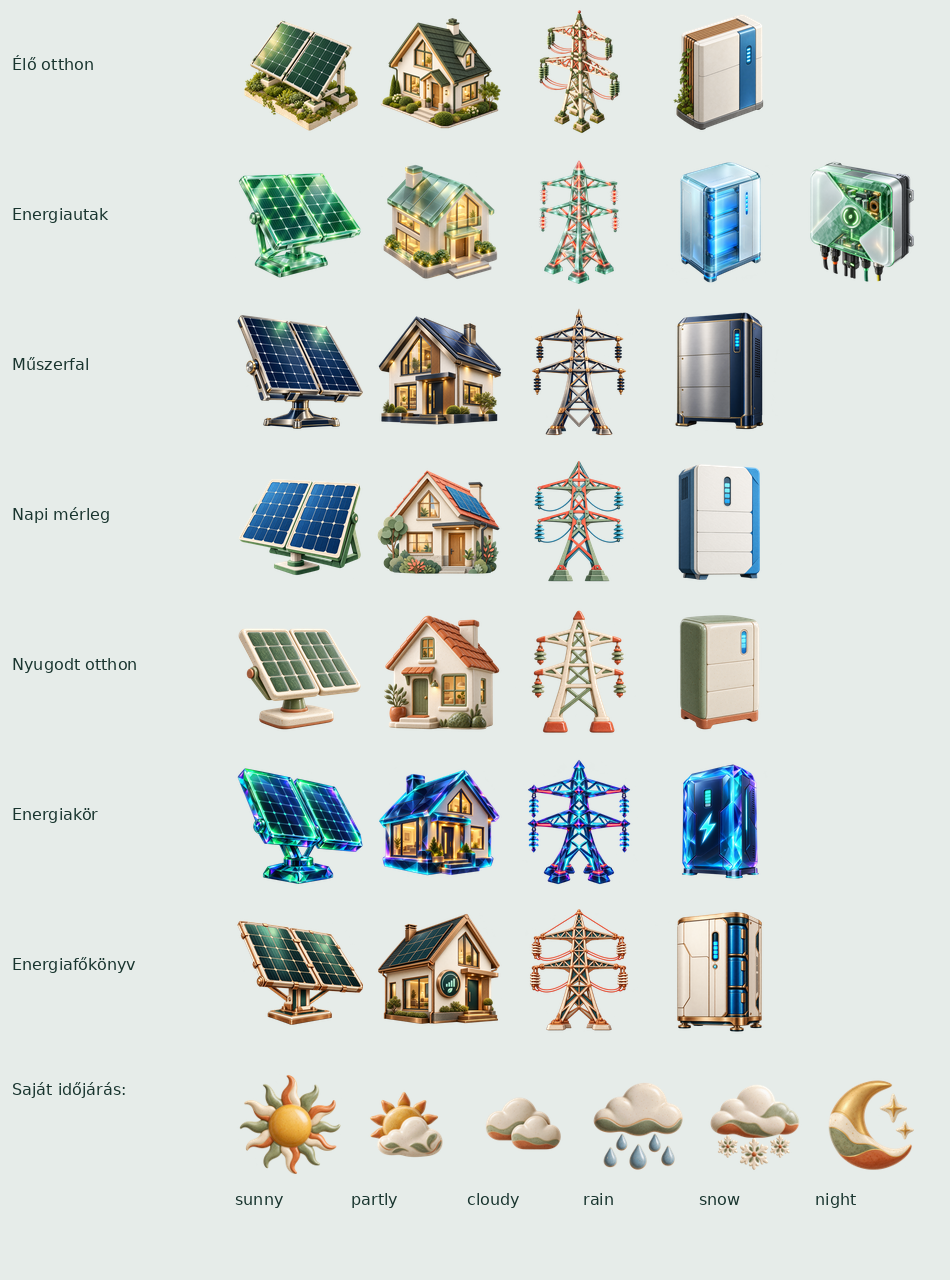
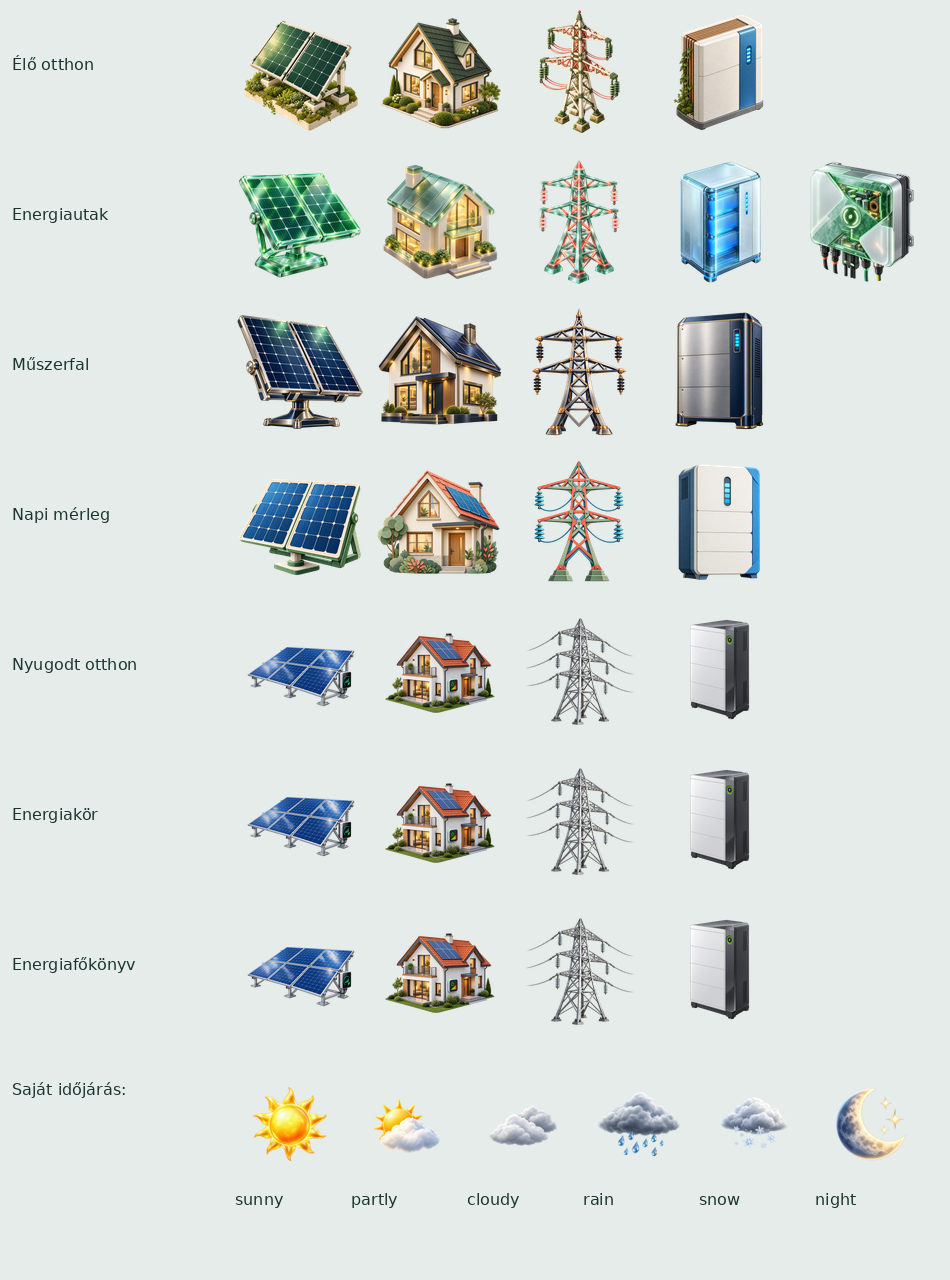
QA: document theme refinements and render all day and night previews

diff --git a/tools/prepare_templates.py b/tools/prepare_templates.py
@@ -98,9 +98,9 @@ def house(dark):
         (1090, 264, 'Akkumulátor', 'battery', BLUE, 'battery_direction'),
         (520, 554, 'Ház fogyasztás', 'home', ORANGE, None)]:
         width = 185 if source == 'battery' else 270
-        s.label(title, x, y, width, 16, s.muted)
+        s.label(title, x, y, width, 16, s.muted, align="center" if source=="home" else "left")
         if extra: s.value(extra, x, y+26, width, 16, color)
-        s.value(source, x, y+(52 if extra else 28), width, 48, color)
+        s.value(source, x, y+(52 if extra else 28), width, 48, color, align="center" if source=="home" else "left")
     s.label('Töltöttség', 1090, 392, 180, 16, s.muted, en='State of charge')
     s.value('soc', 1090, 418, 180, 28, BLUE)
     s.label('Akku hőmérséklet', 1090, 467, 185, 16, s.muted, en='Battery temperature')

diff --git a/tests/preview/preview.c b/tests/preview/preview.c
@@ -119,7 +119,12 @@ static void test_template_indicators(const app_energy_sample_t *sample){
         template_animate(.1f);int first=lv_obj_get_style_bg_opa(node->obj,0);
         template_animate(.3f);assert(first!=lv_obj_get_style_bg_opa(node->obj,0));
     }
-    template_update(sample,&fixture);
+    template_chart_time=0;template_update(sample,&fixture);
+    for(unsigned i=0;i<template_node_count;i++){
+        template_node_t *node=&template_nodes[i];const char *kind=ts(node->spec,"kind");
+        if(!strcmp(ts(node->spec,"type"),"chart")&&(!strcmp(kind,"grid")||!strcmp(kind,"battery")))
+            assert(lv_label_get_text(node->axis[2])[0]=='-');
+    }
 }
 
 static void test_template_weather(const app_energy_sample_t *sample){

diff --git a/docs/theme-refinements-20261011.md b/docs/theme-refinements-20261011.md
@@ -1,0 +1,27 @@
+# Témák vizuális finomítása — 2026-10-11
+
+## Megvalósítás
+
+- Élő otthon: fogyasztás a (650,526) csomópont alatt; fehér/sárga pulzáló pont; Töltöttség felirat; mai visszatáplálás az alsó sáv harmadik mezőjében. A sáv 20 képponttal lejjebb, kizárólag ez kap 32/255 áttetsző fehér buborékot.
+- Energiautak: négypontos köbös Bézier-görbék, egyetlen vektoros stroke, lekerekített csatlakozások és végek. Nincs szegmensenként egymásra rajzolt áttetszőség. A mozgó pontok ugyanannak a görbének a mintavételezett pontjait követik. Halvány fotóháttér, a nappali képből generált éjszakai változat.
+- Műszerfal: hálózati import az eredeti szín, export #FFEB38; akkutöltés az eredeti szín, leadás #2BB1FE. Finom áramköri fotóháttér, egyező éjszakai kép.
+- Napi mérleg: a Tárolt és Hálózat jelmagyarázata mellől eltűnt a két felesleges ikon.
+- Nyugodt otthon, Energiakör, Energiafőkönyv: egységes realisztikus ház-, napelem-, villanyoszlop- és akkumulátor-PNG-k. Nyugodt otthon új, részletes hatállapotú időjáráskészletet használ; a statisztika fejlécében ugyanaz a készlet látható.
+- Energiafőkönyv: zöldövezeti európai városfotó, ugyanaz a város éjjel, megvilágított ablakokkal és utcákkal.
+- Energiastatisztika: élénkebb szerepszínek, fogyasztás narancs, import a heti/havi diagramon is a hálózat színe. Hálózati egyenleg és Akku egyenleg helyes címek; Töltöttség egységes felirat. Időjárás, hőmérséklet és szél az óra előtt.
+
+## Statisztikai ellenőrzés
+
+Az élő teljesítmények kW/W, napi energiaösszegek kWh, SOC százalék, napi görbék ötperces átlagok. Hálózat: import pozitív, export negatív. Akkumulátor: leadás pozitív, töltés negatív. A napi hálózati egyenleg import mínusz export, az akkuegyenleg leadás mínusz töltés; ezek előjele megmarad. Nullán a hálózat Nincs áramlás feliratot mutat.
+
+A termelési diagram rétegei tárolóba / házhoz / hálózatra, a fogyasztási diagramé hálózatról / termelésből / tárolóból. A termelési és fogyasztási százalékok saját napi összegükkel osztanak. A forrásfelosztás a meglévő PV-első becslés, ezt a lábléc jelöli; a bemenet nem azonosítja a korábban hálózatról töltött akkuenergia eredetét. Heti/havi oszlopok kWh-ban, a mai nap részleges. Adathiány és hiányzó SOC nem kap fiktív összekötést.
+
+## Képek és memória
+
+A képek a beépített image_gen eszközzel készültek. A három háttérpár 1024×640 RGB PNG, a felület 1280×800-ra méretezi őket. Az ikonok 128×128 RGBA PNG-k, a generált alfa megőrzésével. A sabloncsomagok a meglévő 4 MiB kódolt és 12 MiB dekódolt korlátokon belül maradnak. Az eredeti és a futásidejű képek SHA256-értékeit a theme-refinement-assets.json rögzíti.
+
+## Validálás
+
+A teljes helyi C/Python/JavaScript regressziós csomag sikeres: adatkezelés, telepítés, ZIP, PNG, webes validálás és kiadási csomagolás. A tényleges LVGL-firmware felület szigorú figyelmeztetésekkel fordul; 16 nappali/éjszakai render, mozgási irány, nulla/7 kW korlát, időjárásváltás, irányfüggő műszerszínek és pulzálás ellenőrzött. Az eredeti rendszer témához nem változott kód vagy asset; 13 korábbi render pixelpontosan egyezik.
+
+A távoli feltöltést automatikus jóváhagyási ellenőrzés blokkolta; ezért ehhez a változatállapothoz új GitHub CI még nem indult. Fizikai ESP32-P4 átvételi próba szükséges.
